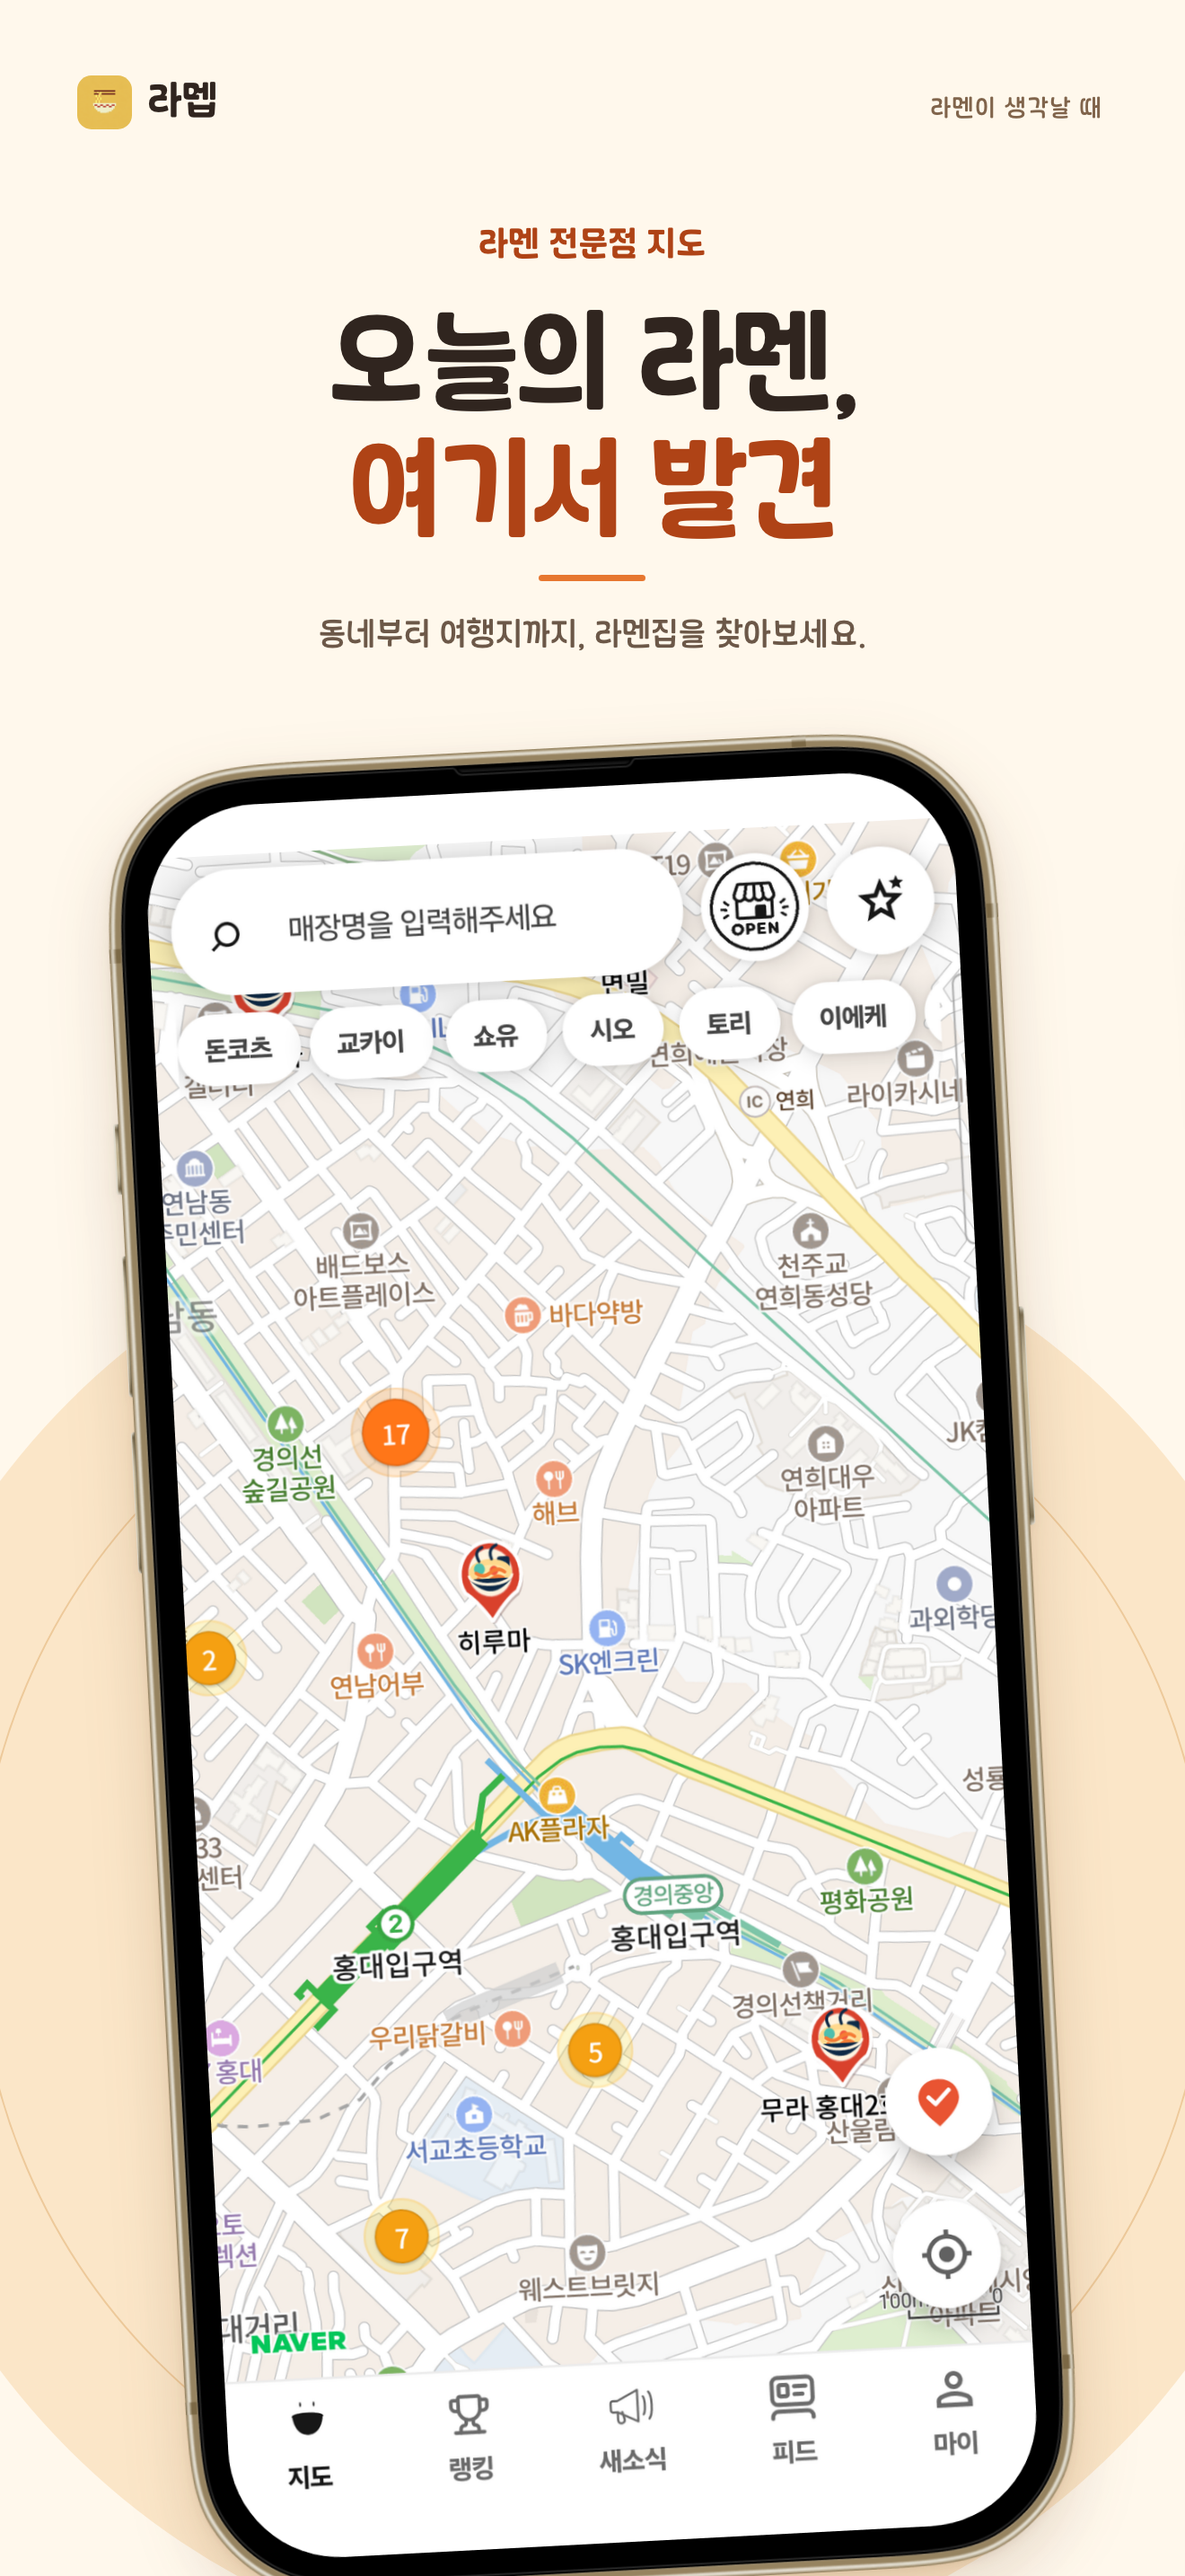
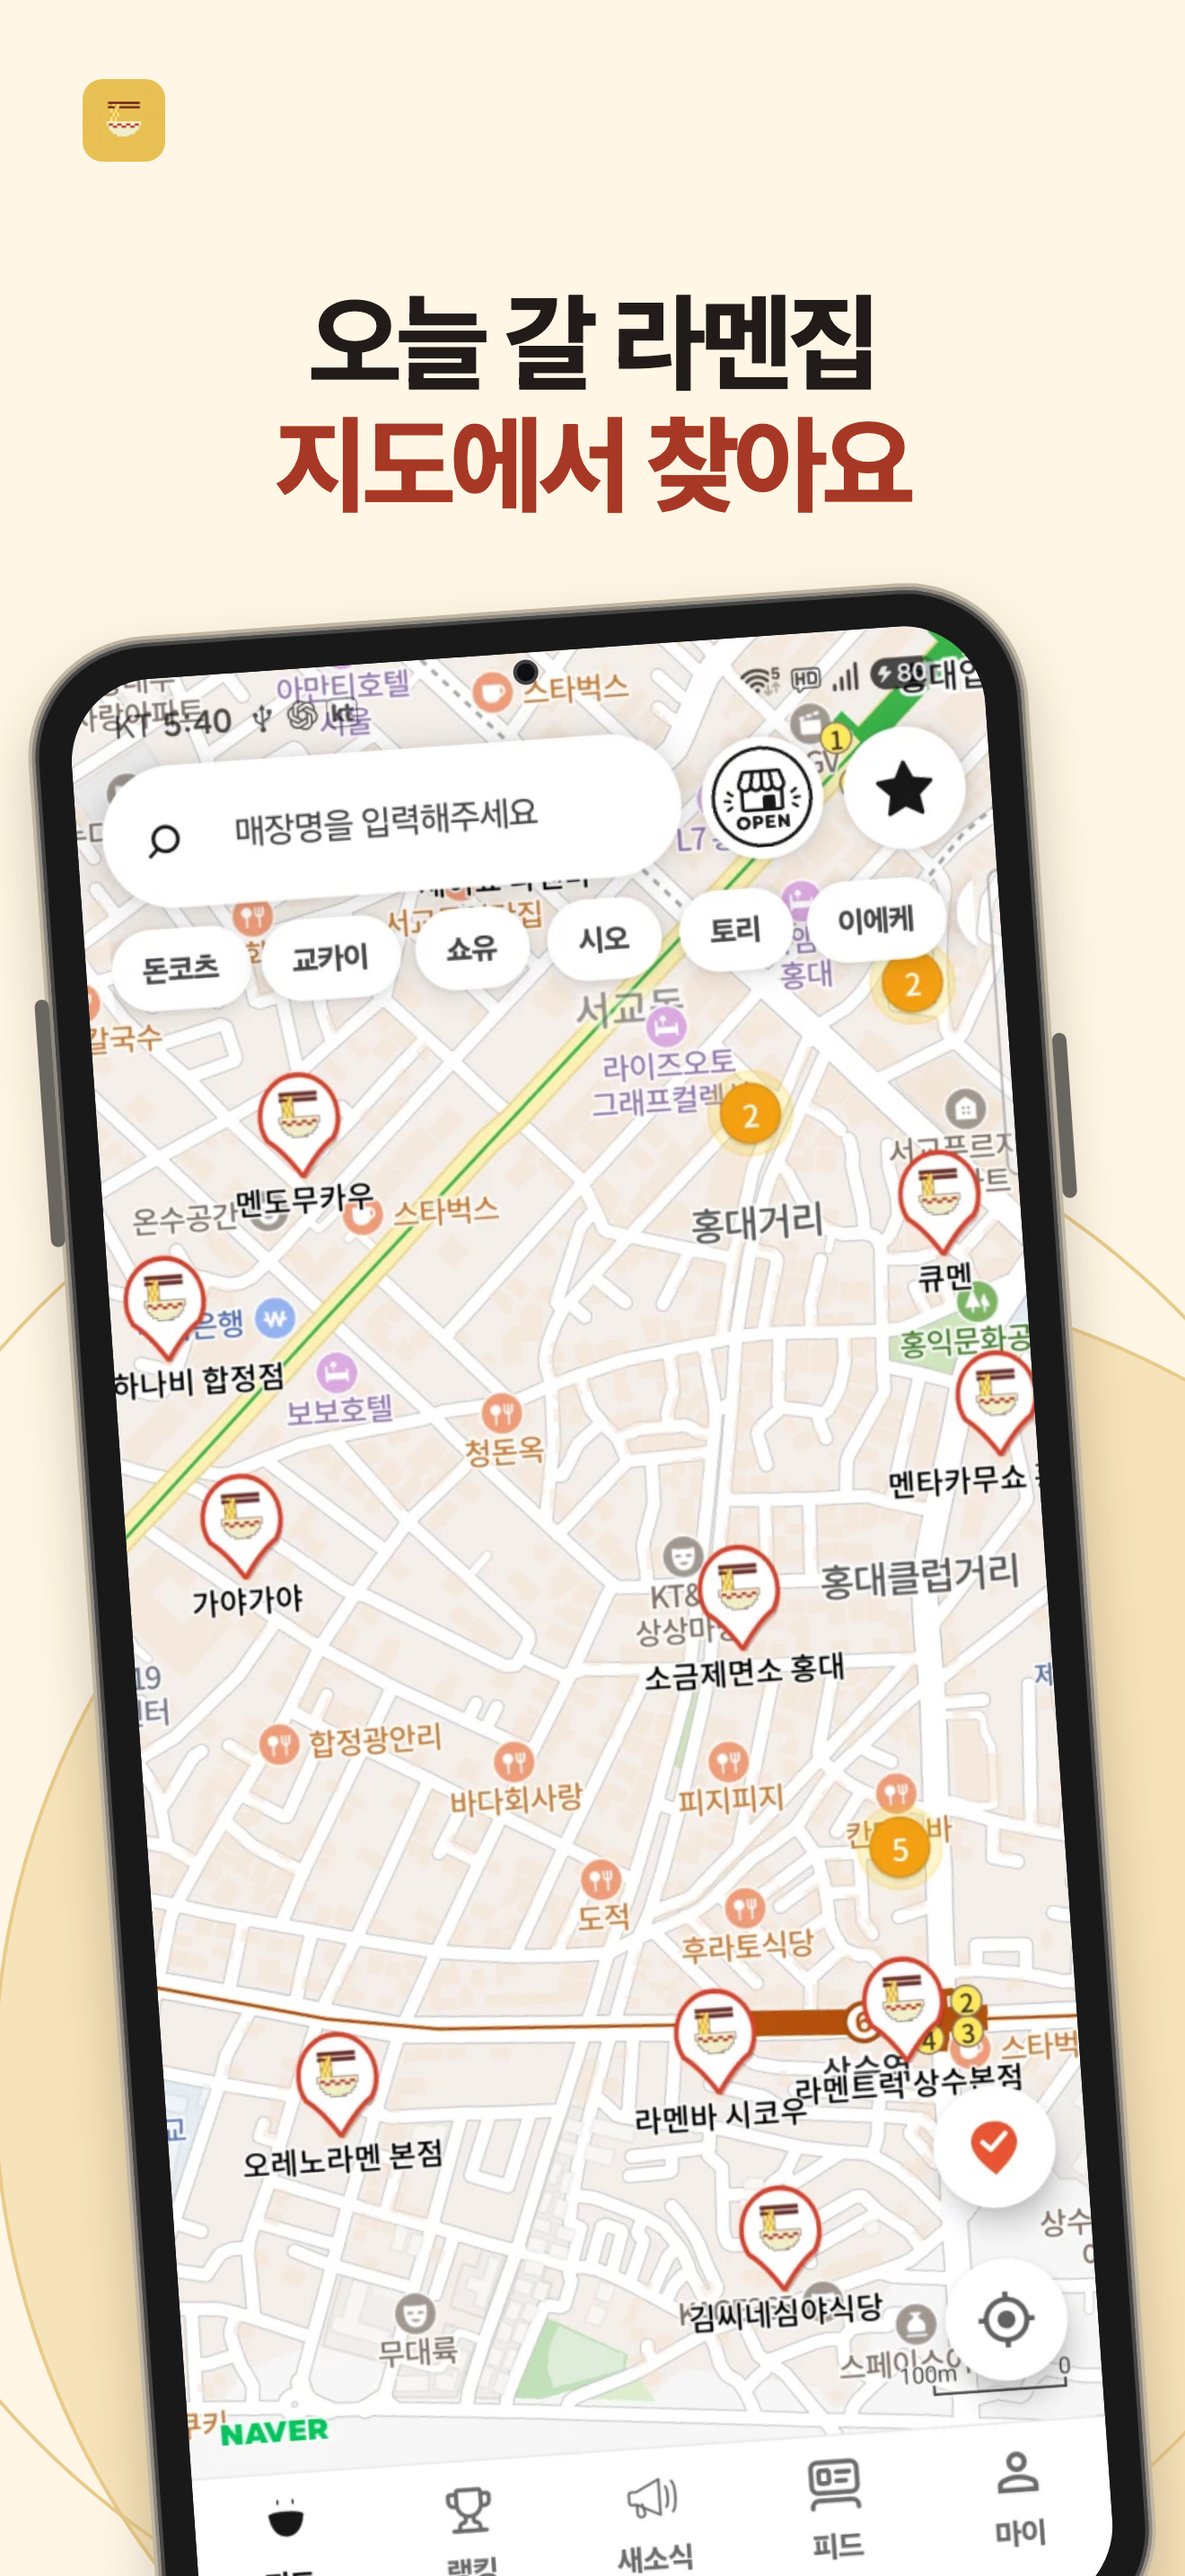
docs: README 앱 화면 스크린샷 최신화

diff --git a/README.md b/README.md
@@ -65,6 +65,14 @@
         <td><img src="assets/store-screenshots/07-opening-updates.png" alt="방문 전 임시 휴무와 조기 마감 소식을 확인하는 라멥 스토어 스크린샷" width="240" /></td>
         <td><img src="assets/store-screenshots/08-ramen-life.png" alt="매장 탐색과 저장 및 방문 리뷰를 소개하는 라멥 스토어 스크린샷" width="240" /></td>
     </tr>
+    <tr>
+        <th>나만의 라멘 지도</th>
+        <th>방문 기록</th>
+    </tr>
+    <tr>
+        <td><img src="assets/store-screenshots/09-archive-map.png" alt="다녀온 라멘집을 리뷰 사진과 함께 모아 보는 아카이빙 지도" width="240" /></td>
+        <td><img src="assets/store-screenshots/10-visit-history.png" alt="매장별로 지난 방문의 리뷰와 사진을 확인하는 라멥 화면" width="240" /></td>
+    </tr>
 </table>
 
 ## 기술 스택
